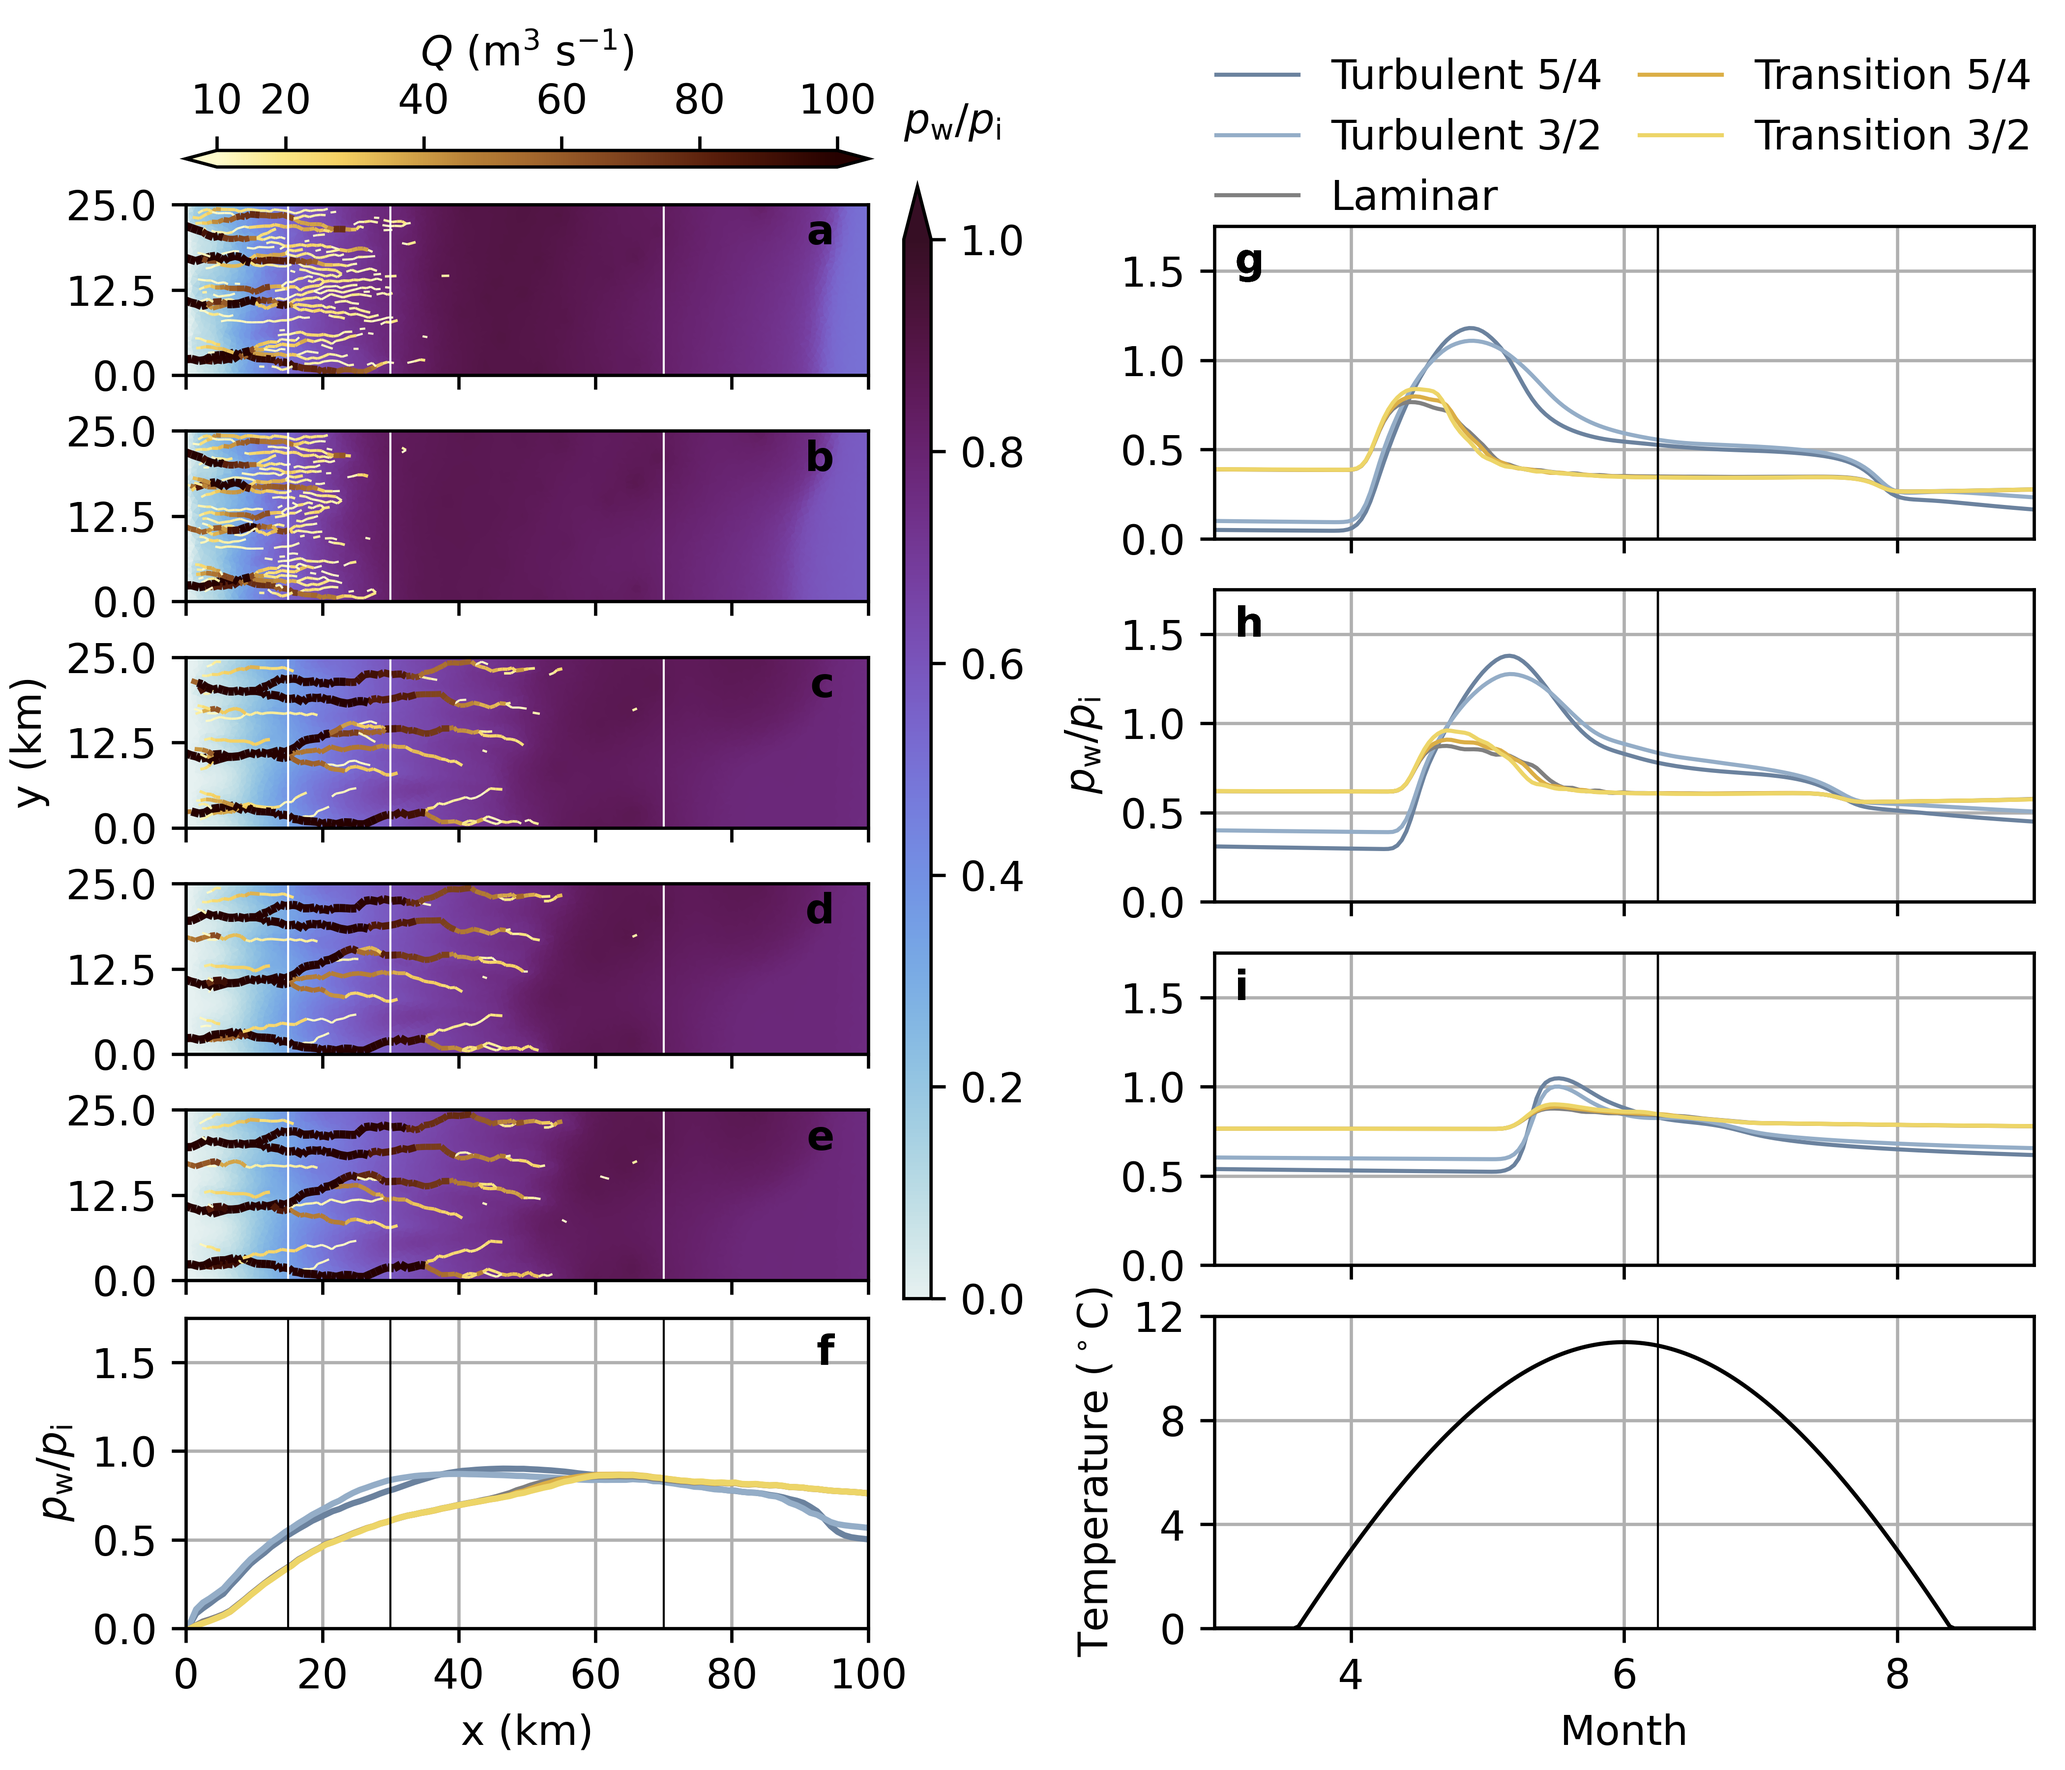
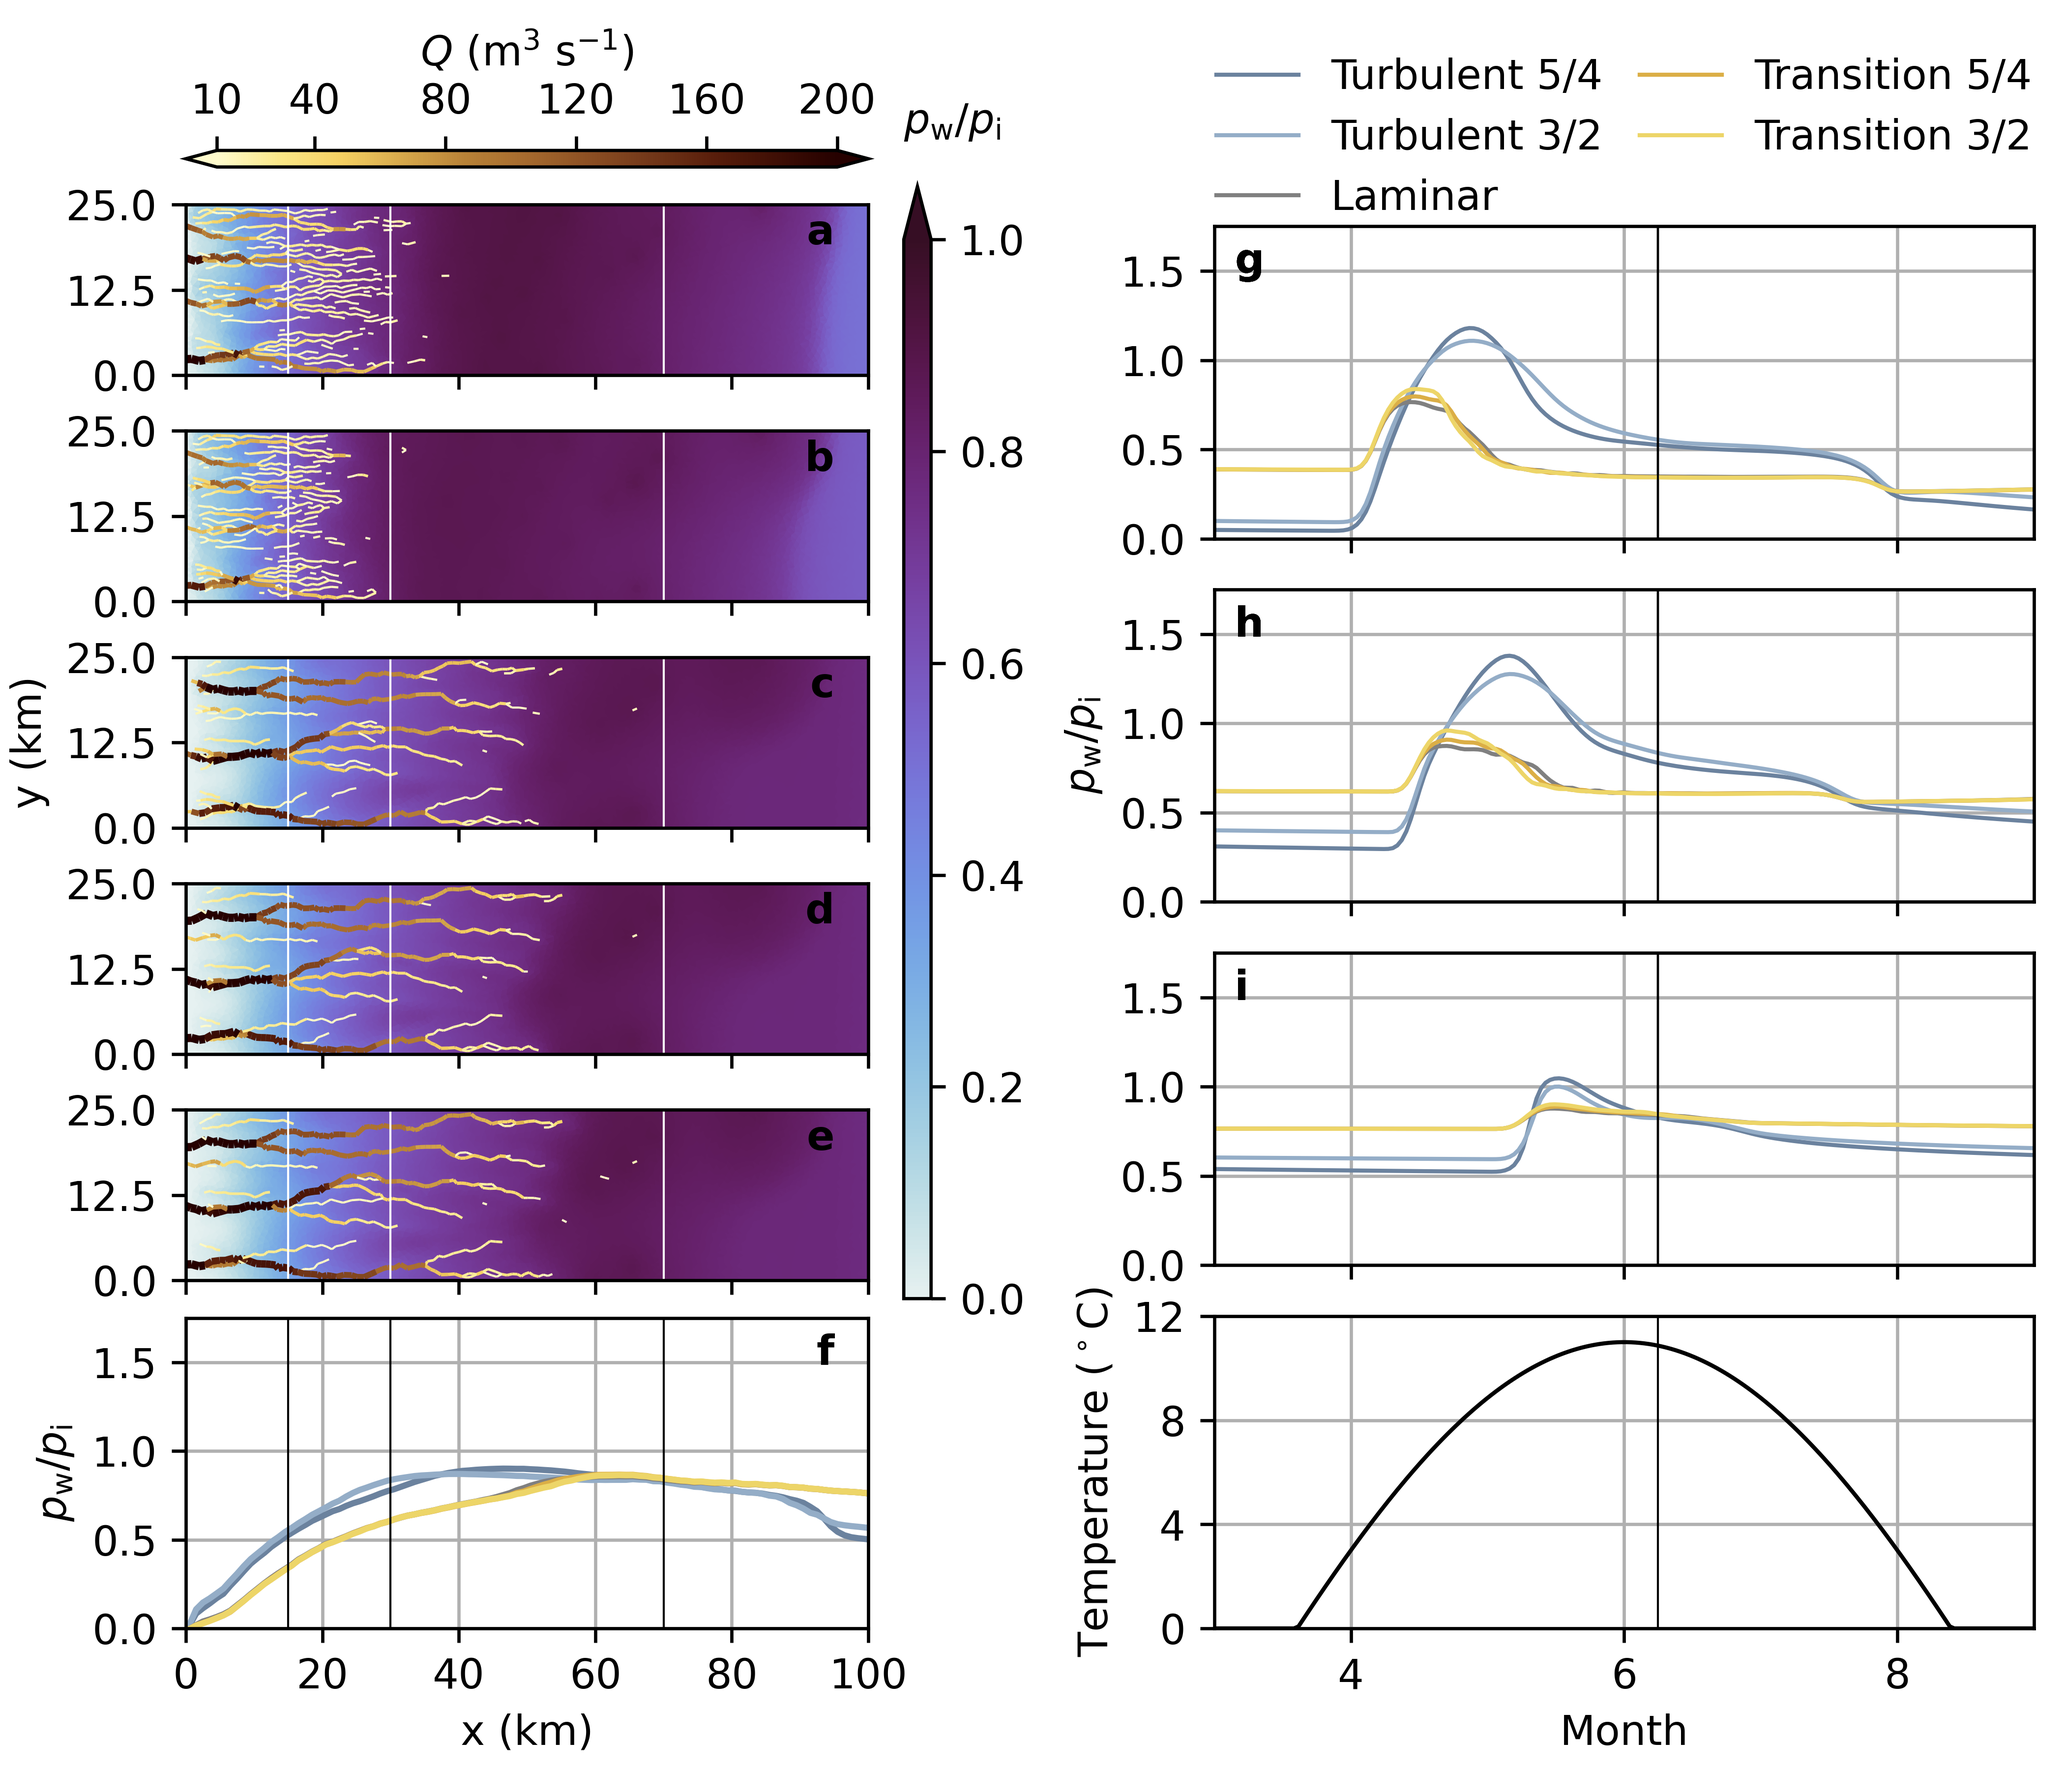
Q llimits

diff --git a/analysis/make_pressure_figs.py b/analysis/make_pressure_figs.py
@@ -26,7 +26,7 @@ fig_00 = plot_pressure_maps_timeseries(fnames, figname, Qmin=1, melt_forcing='SH
 cases = [201, 202, 203, 204, 205]
 fnames = ['../glads/00_shmip_forcing_shmip_topo/RUN/output_%03d_seasonal.nc'%caseid for caseid in cases]
 figname = '00_pressure_seasonal_200_t190.png'
-fig_00 = plot_pressure_maps_timeseries(fnames, figname, Qmin=10, melt_forcing='SHMIP',
+fig_00 = plot_pressure_maps_timeseries(fnames, figname, Qmin=10, Qmax=200, melt_forcing='SHMIP',
     t_ticklabels=t_ticklabels[:-1], t_xlabel=t_xlabel, t_ticks=t_ticks[:-1], t_lim=[1 + 3/12, 1 + 9/12],
     ff_ylim=[0,1.75], ff_yticks=[0, 0.5, 1, 1.5], tslice=190+365)
 
@@ -45,7 +45,7 @@ cases = [201, 202, 203, 204, 205]
 pattern = '../glads/01_kan_l_forcing_shmip_topo/RUN/output_%03d_seasonal.nc'
 fnames = [pattern % caseid for caseid in cases]
 figname = '01_pressure_seasonal_t190.png'
-fig_01 = plot_pressure_maps_timeseries(fnames, figname, tslice=KAN_tslice, Qmin=1, melt_forcing='KAN',
+fig_01 = plot_pressure_maps_timeseries(fnames, figname, tslice=KAN_tslice, Qmin=1, Qmax=100, melt_forcing='KAN',
     t_ticklabels=t_ticklabels, t_xlabel=t_xlabel, t_ticks=t_ticks, t_lim=t_lim,
     ff_ylim=[0, 1.75], ff_yticks=[0, 0.5, 1, 1.5])
 
@@ -65,7 +65,7 @@ cases = [1, 2, 3, 4, 5]
 pattern = '../glads/02a_shmip_forcing_valley_topo/RUN/output_%03d_seasonal.nc'
 fnames = [pattern % caseid for caseid in cases]
 figname = '02a_pressure_seasonal_t190.png'
-fig_02 = plot_pressure_maps_timeseries(fnames, figname, Qmin=10, Qmax=100, melt_forcing='SHMIP',
+fig_02 = plot_pressure_maps_timeseries(fnames, figname, Qmin=10, Qmax=200, melt_forcing='SHMIP',
     t_ticklabels=t_ticklabels[:-1], t_xlabel=t_xlabel, t_ticks=t_ticks[:-1], t_lim=[1+3/12, 1+9/12],
     ff_ylim=[0,1.75], ff_yticks=[0, 0.5, 1, 1.5], tslice=190+365)
 

diff --git a/analysis/plot_pressure_maps_separate_timeseries.py b/analysis/plot_pressure_maps_separate_timeseries.py
@@ -266,7 +266,13 @@ def plot_pressure_maps_timeseries(fnames, figname, tslice=defaults.tslice,
     cax1.xaxis.tick_top()
     cax1.xaxis.set_label_position('top')
 
-    cax2.set_xticks([Qmin, 20, 40, 60, 80, 100])
+    cticks = np.linspace(0, Qmax, 6)
+    cticks[0] = Qmin
+    cticks = np.unique(cticks)
+    print(Qmin)
+    print(Qmax)
+    print(cticks)
+    cax2.set_xticks(cticks)
 
     cax2.xaxis.tick_top()
     cax2.xaxis.set_label_position('top')
